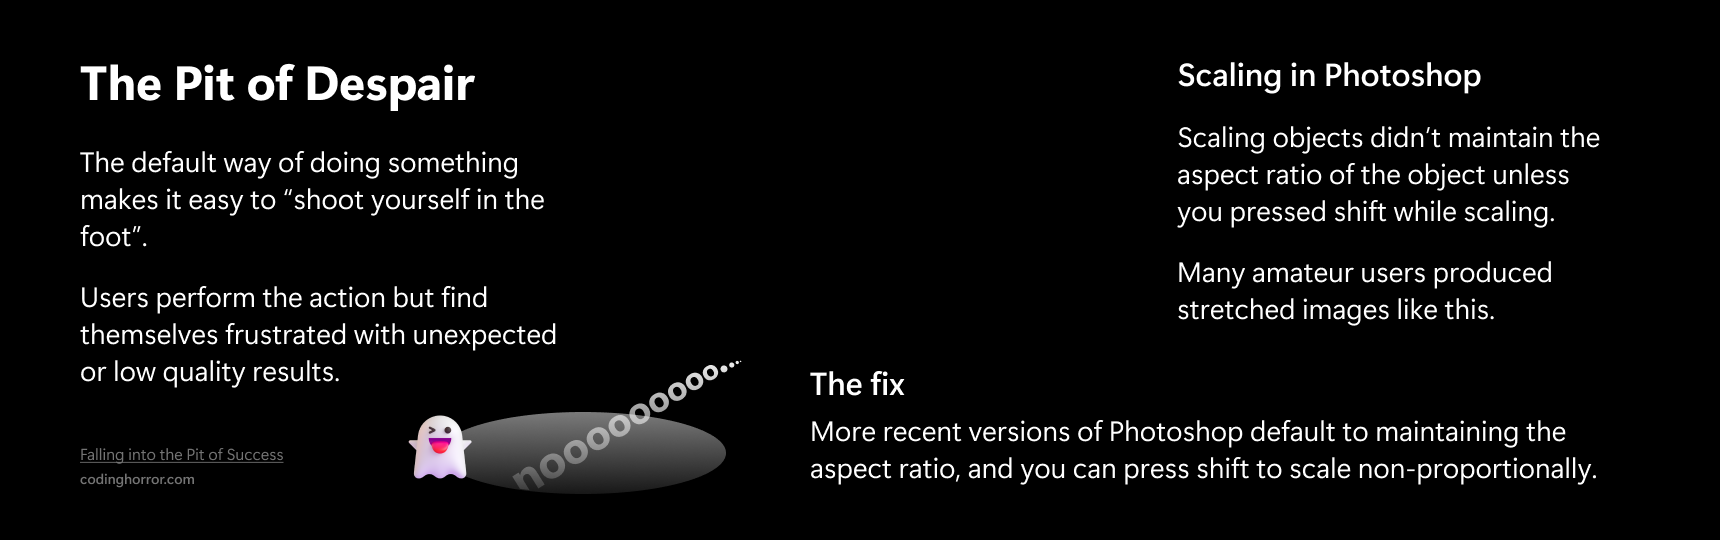
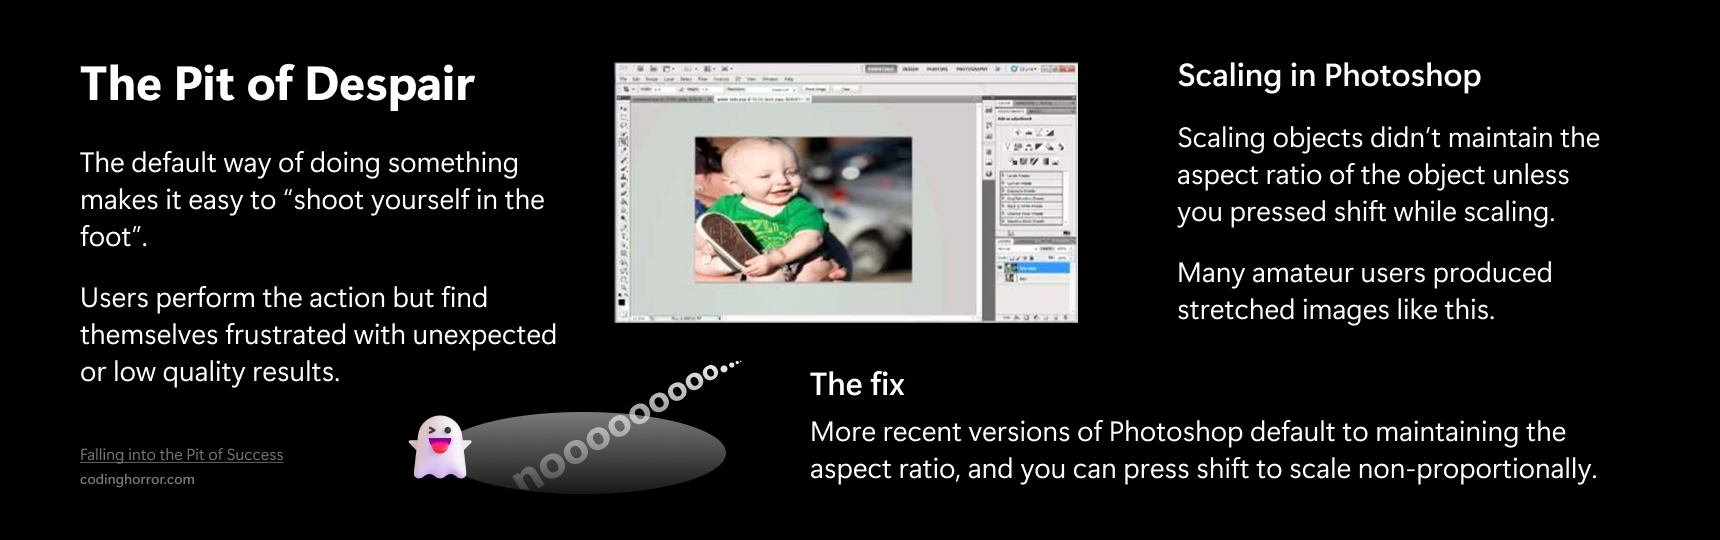
fix

Changed region(s): [[0.339, 0.0889, 0.6471, 0.6222]]

diff --git a/_posts/2023-03-22-shape-of-the-tool.md b/_posts/2023-03-22-shape-of-the-tool.md
@@ -4,19 +4,21 @@ title: The Shape of the Tool
 subtitle: What can you make with a tool?
 tags: misc
 thumbnail: https://gyanl.com/assets/thumbs/default.png
-date modified: 22-03-2023
+date modified: 23-03-2023
 ---
 
-When designing a tool, it's intriguing to consider how the shape of a tool can impact what can be created with it. When designing a tool that people will use to create something, it's important to consider how your design decisions will affect the final product created with the tool.
+Tools help people create things. When designing a tool that people will use to create an artefact, it's intriguing to consider how your design decisions will affect the final product created with the tool.
 
 Let's start with an example from calligraphy. Devanagari lettering, used for Hindi and other languages, is traditionally done with a pen angled at around 45 degrees. This angle is what gives Devanagari its characteristic shape, with its sweeping curves and distinctive loops. The shape of the tool, in this case, the angled pen, is what dictates what can be created with it. If you were to try to create Devanagari lettering with a straight pen, or use the 55 degree pen angle typically used by Latin calligraphy, it would look quite different. The character of Devanagari calligraphy is a very direct result of how the pen is shaped.
 
-
 ![Two people sitting with masks on](https://gyanl.com/assets/pit-of-despair.png)
-###### My brother and I at the vaccination centre. Hooray for modern medicine.
+
+##### Adapting the idea of a Pit of Despair from this article: [Falling Into The Pit of Success (codinghorror.com)](https://blog.codinghorror.com/falling-into-the-pit-of-success/)
 
 The impact of tool shape isn't limited to calligraphy, as seen in digital tools like Photoshop. In previous versions of Photoshop, the default setting for the scale tool was non-proportional scaling. This meant that when an object was scaled, it was easy to stretch the image in one direction. Later versions of Photoshop changed the default setting to proportional scaling, which preserves the aspect ratio of the object being scaled. This change reduced the frequency of accidentally distorted images.
 
 ![Two people sitting with masks on](https://gyanl.com/assets/pit-of-success.png)
 
-Another example is the graphic design tool Canva, which curiously lacks an underline option. Underlines have long been used as a way to emphasize words, and many of Canva’s users could want to use them to make some text stand out. The visual language of the internet uses underlines to denote links - and Canva avoids users accidentally making something look like a link by intentionally making it difficult to use underlines on their app.
+##### Adapting the idea of a Pit of Success from this article: [Falling Into The Pit of Success (codinghorror.com)](https://blog.codinghorror.com/falling-into-the-pit-of-success/)
+
+Another example is the graphic design tool Canva, which curiously lacks an underline option on mobile. Underlines have long been used as a way to emphasize words, and many of Canva’s users could want to use them to make some text stand out. The visual language of the internet uses underlines to denote links - and Canva avoids users accidentally making something look like a link by intentionally making it difficult to use underlines on their app.
